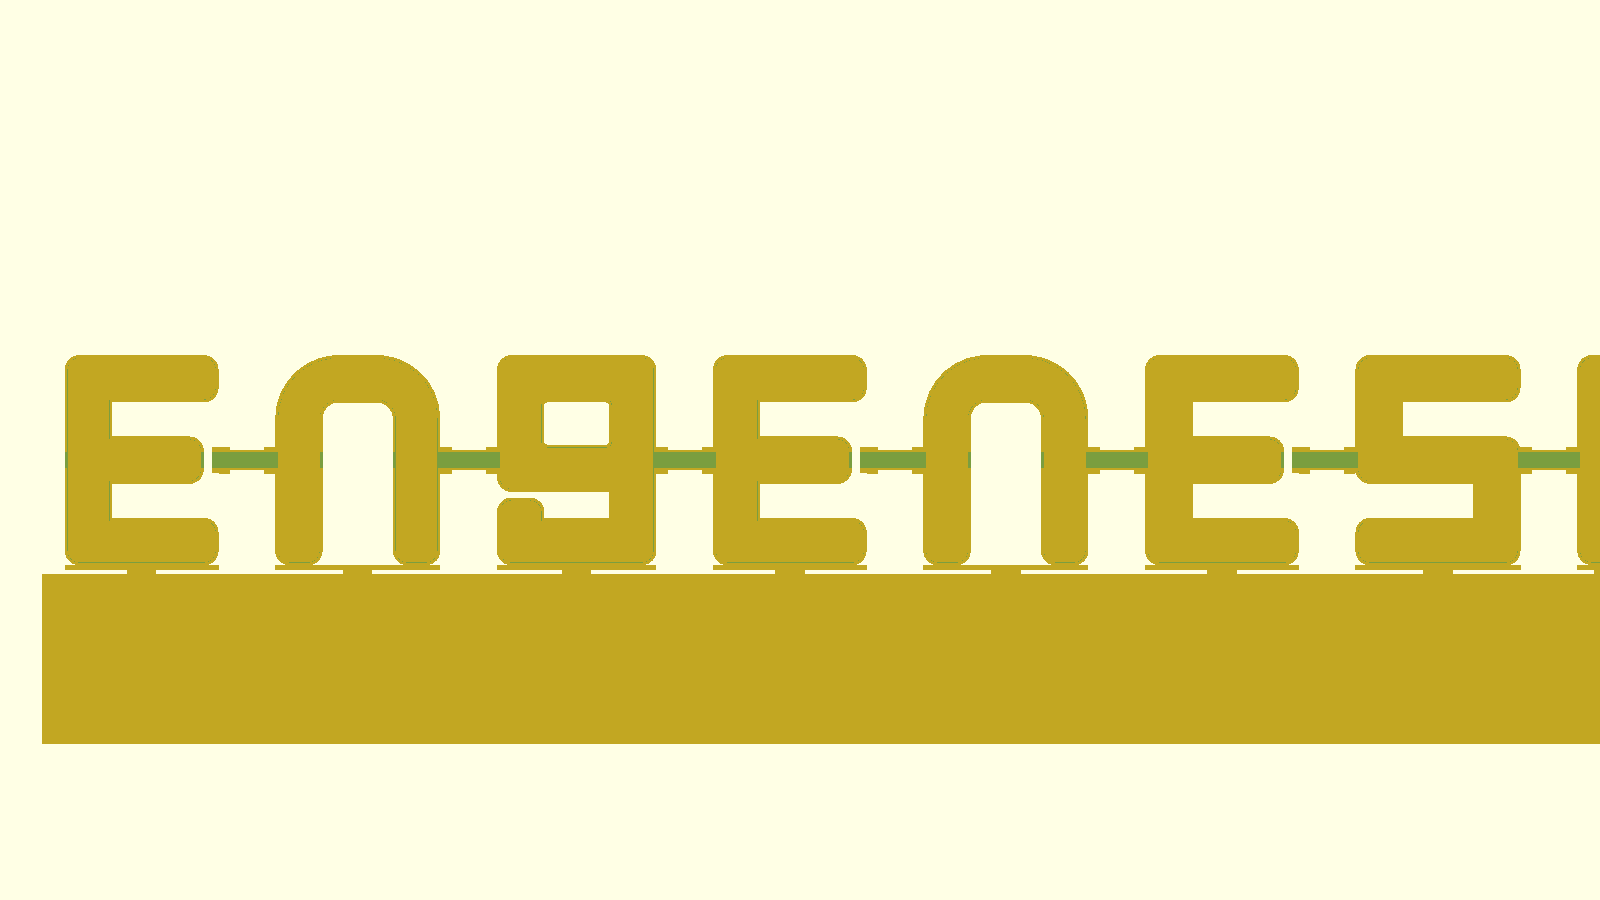
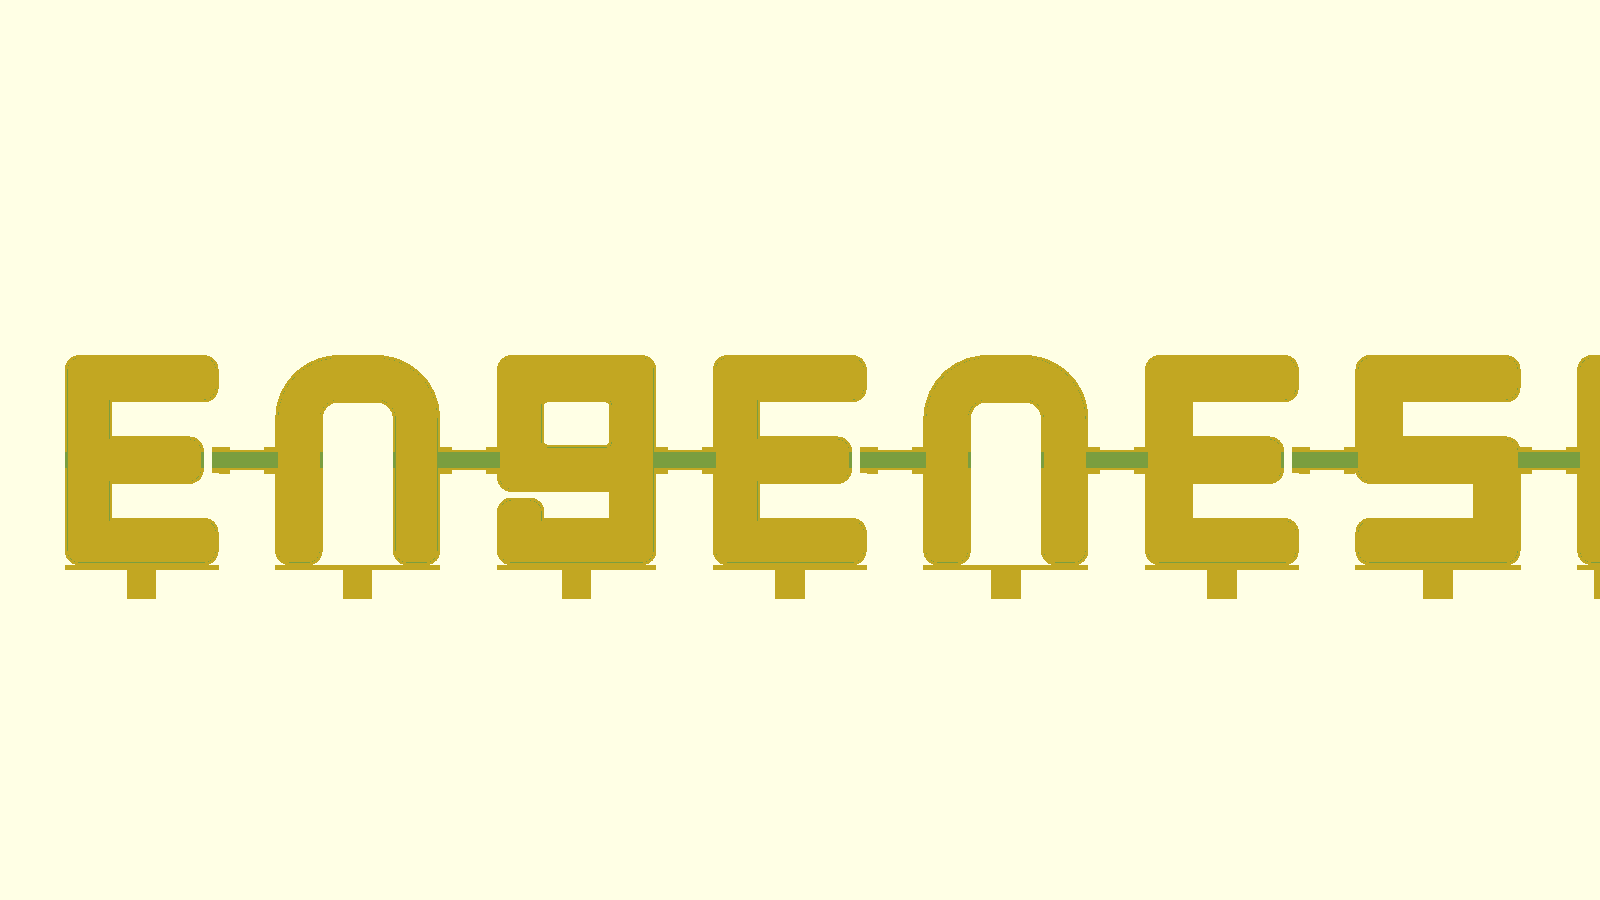
Set divider to 22 mm and remove divider from model
Only the clips remain in the assembly; the divider is no longer drawn.

Changed region(s): [[0.0, 0.6222, 1.0, 0.84]]

diff --git a/engenesis-lamp/README_Engenesis_OpenSCAD.md b/engenesis-lamp/README_Engenesis_OpenSCAD.md
@@ -27,7 +27,7 @@ Before printing the full system, measure and update these variables near the top
 - Desired overall letter height
 - Available sign length across the desk dividers
 
-The default clip fits an 8 mm divider. Print only one short clip/bridge test first.
+The default clip fits a 22 mm divider. Print only one short clip/bridge test first.
 
 ## Suggested materials
 
